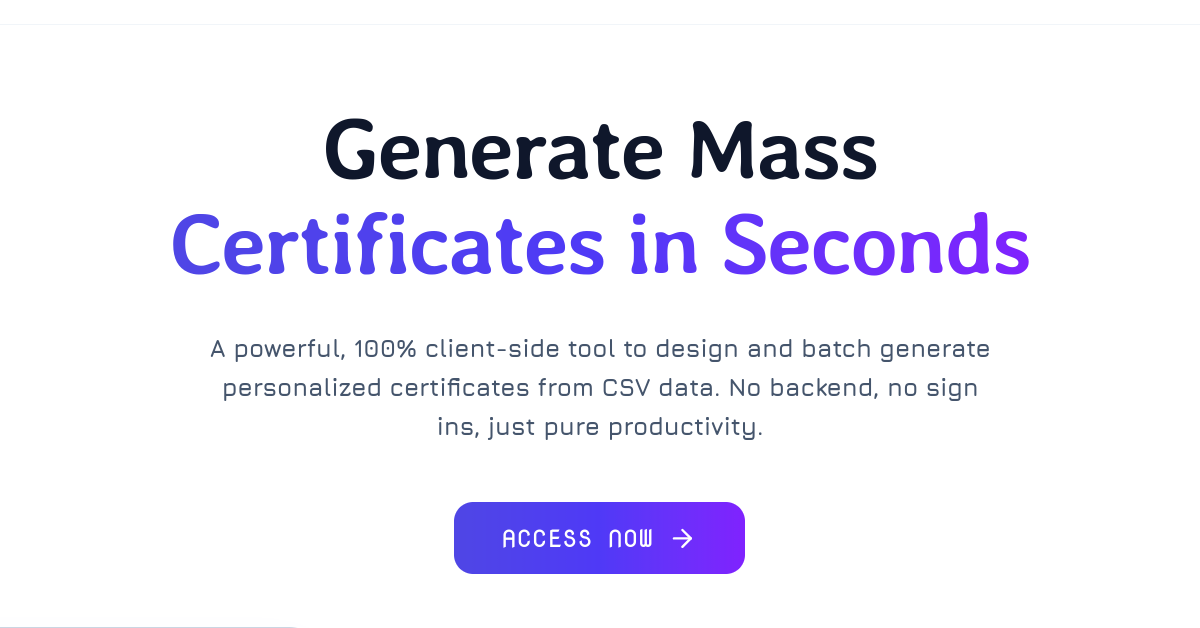
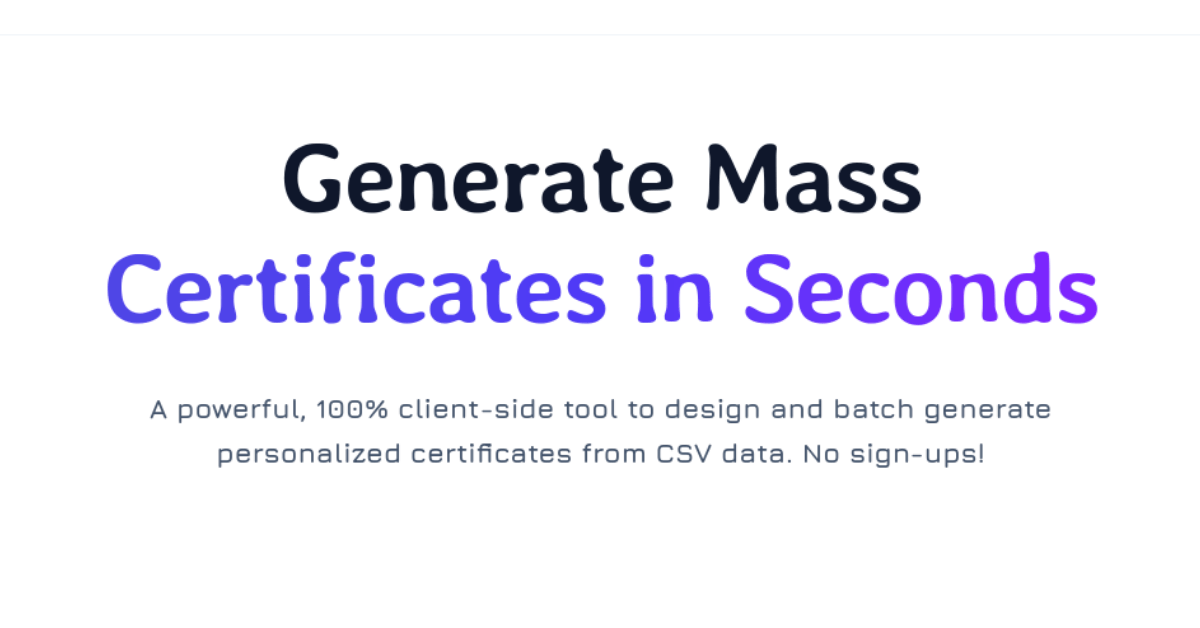
smol update

diff --git a/src/components/LandingPage.tsx b/src/components/LandingPage.tsx
@@ -38,7 +38,7 @@ export const LandingPage = React.memo(({ onStart }: LandingPageProps) => {
 
                     <p className="text-lg md:text-xl text-slate-600 max-w-2xl mx-auto leading-relaxed opacity-0 animate-slide-up delay-100">
                         A powerful, 100% client-side tool to design and batch generate
-                        personalized certificates from CSV data. No backend, no sign ins, just pure productivity.
+                        personalized certificates from CSV data. No sign-ups!
                     </p>
 
                     <div className="flex flex-col sm:flex-row items-center justify-center gap-4 pt-4 opacity-0 animate-slide-up delay-200">
